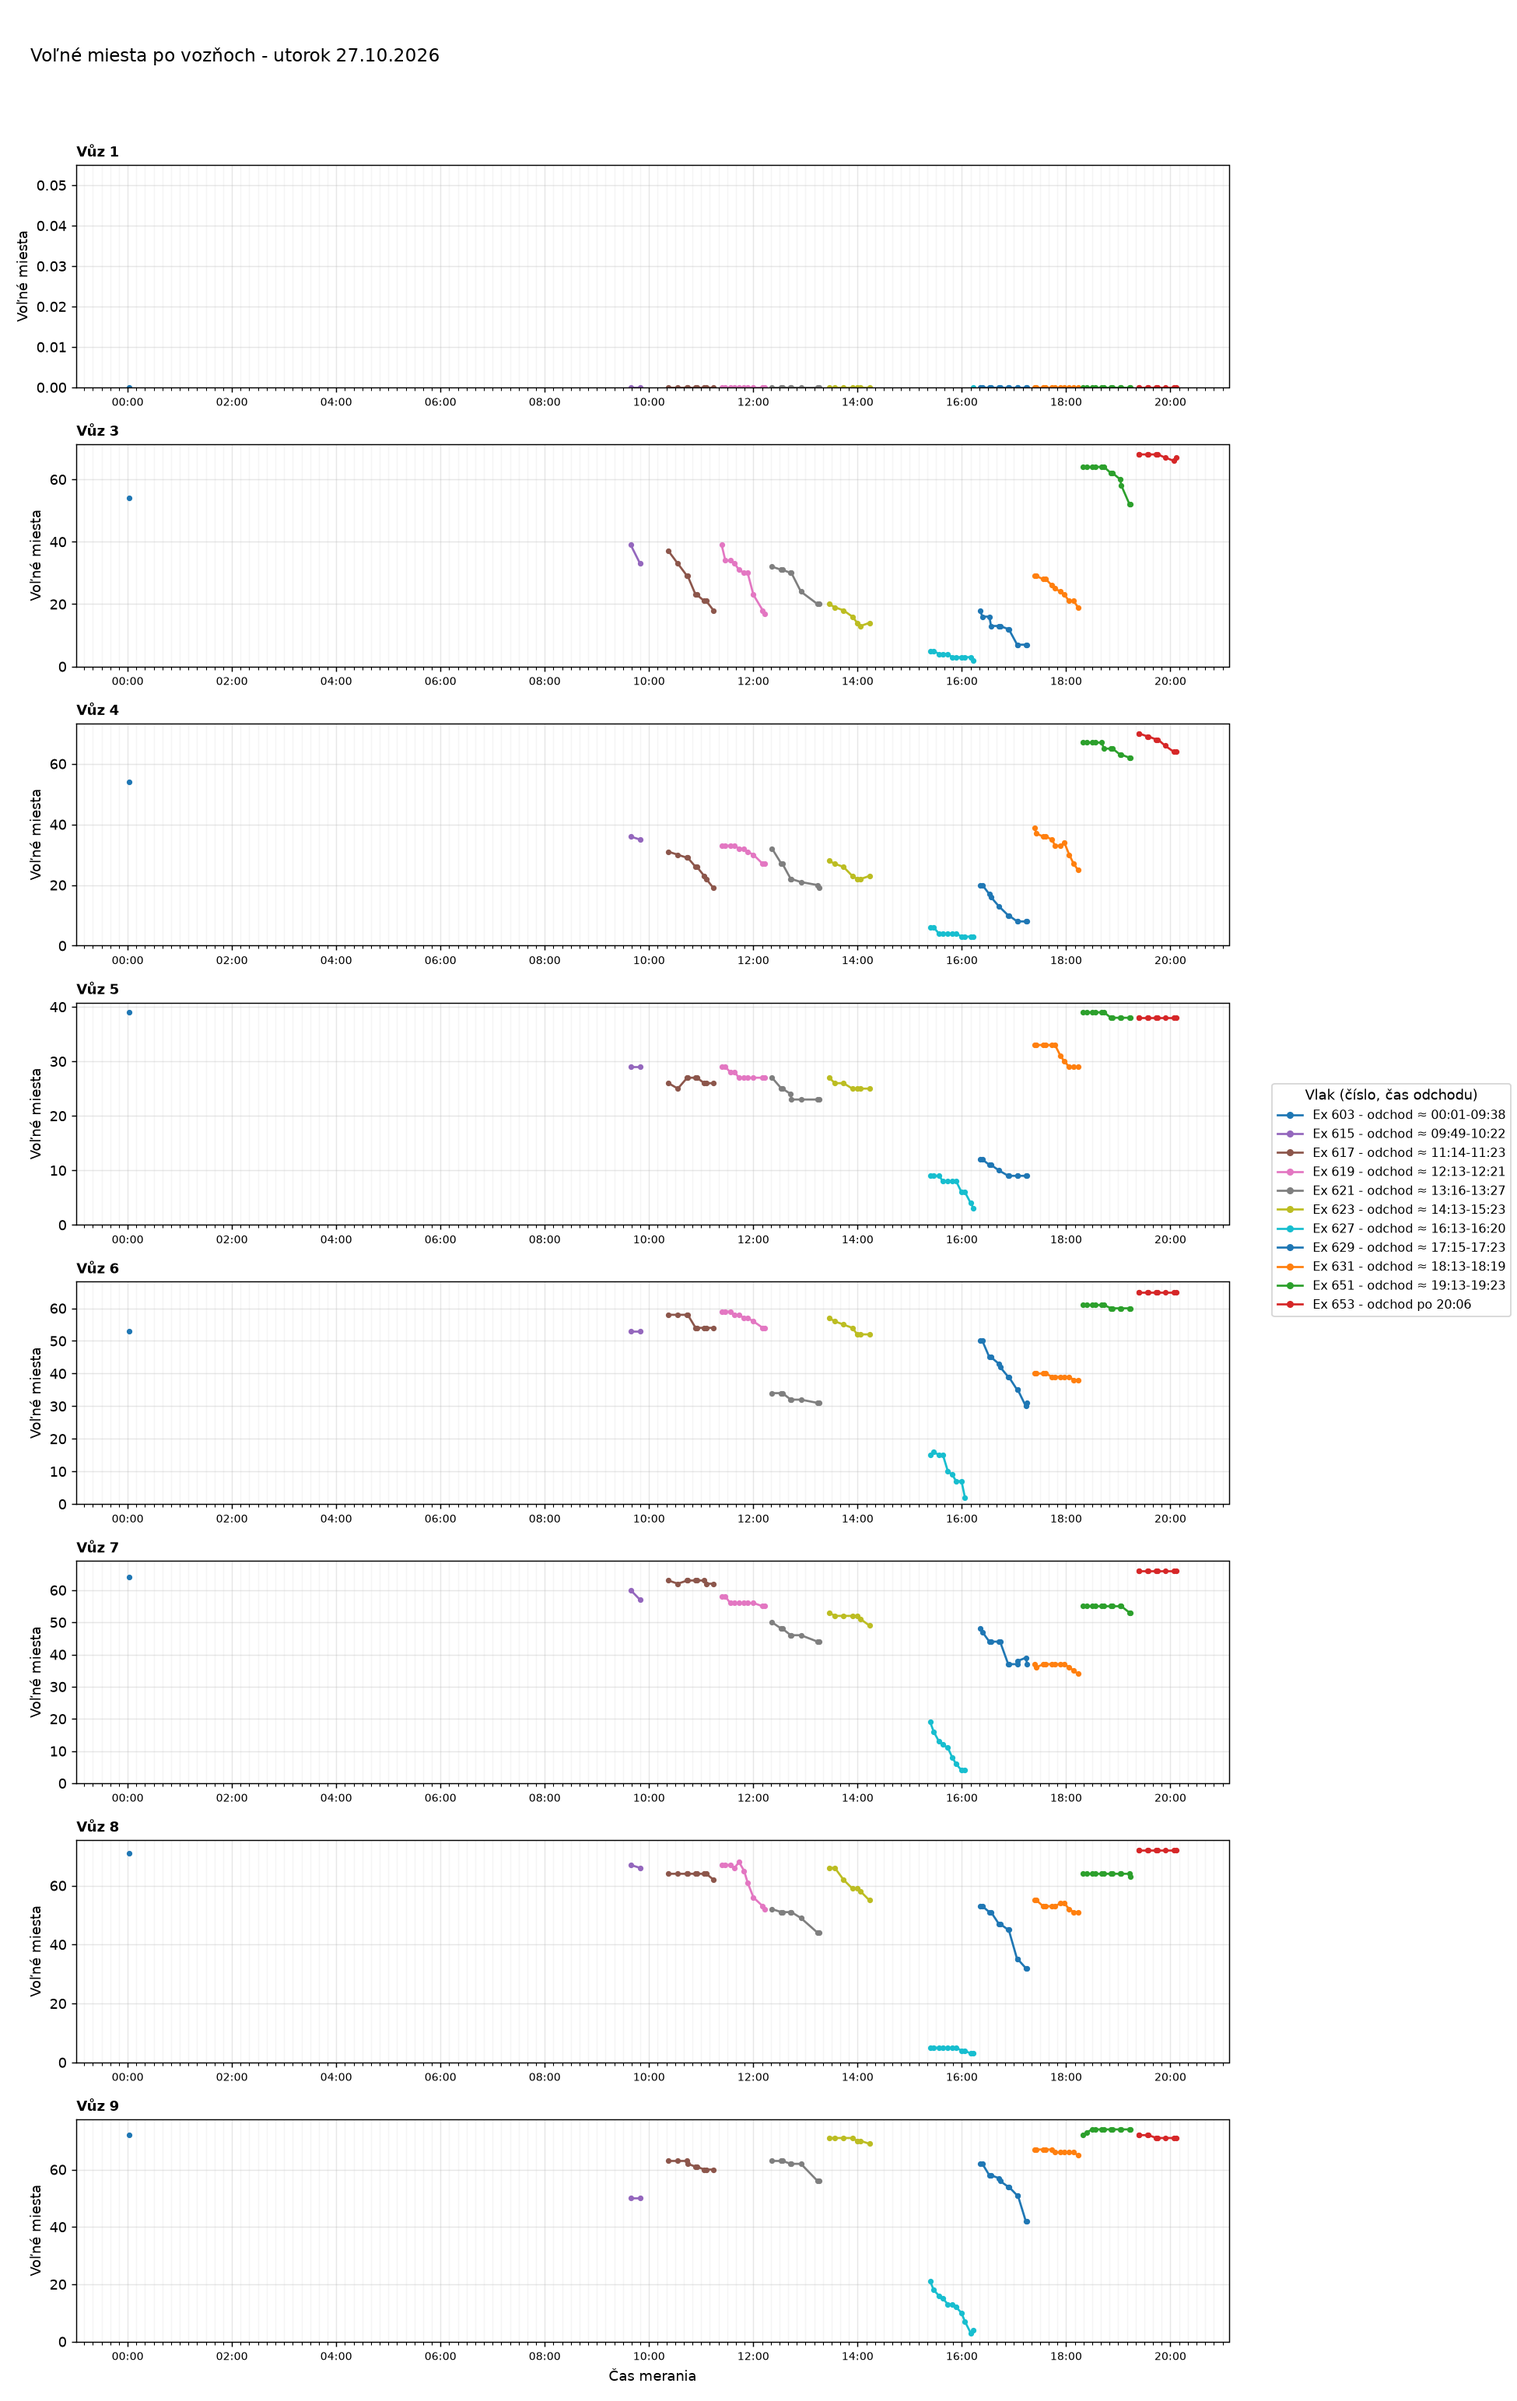
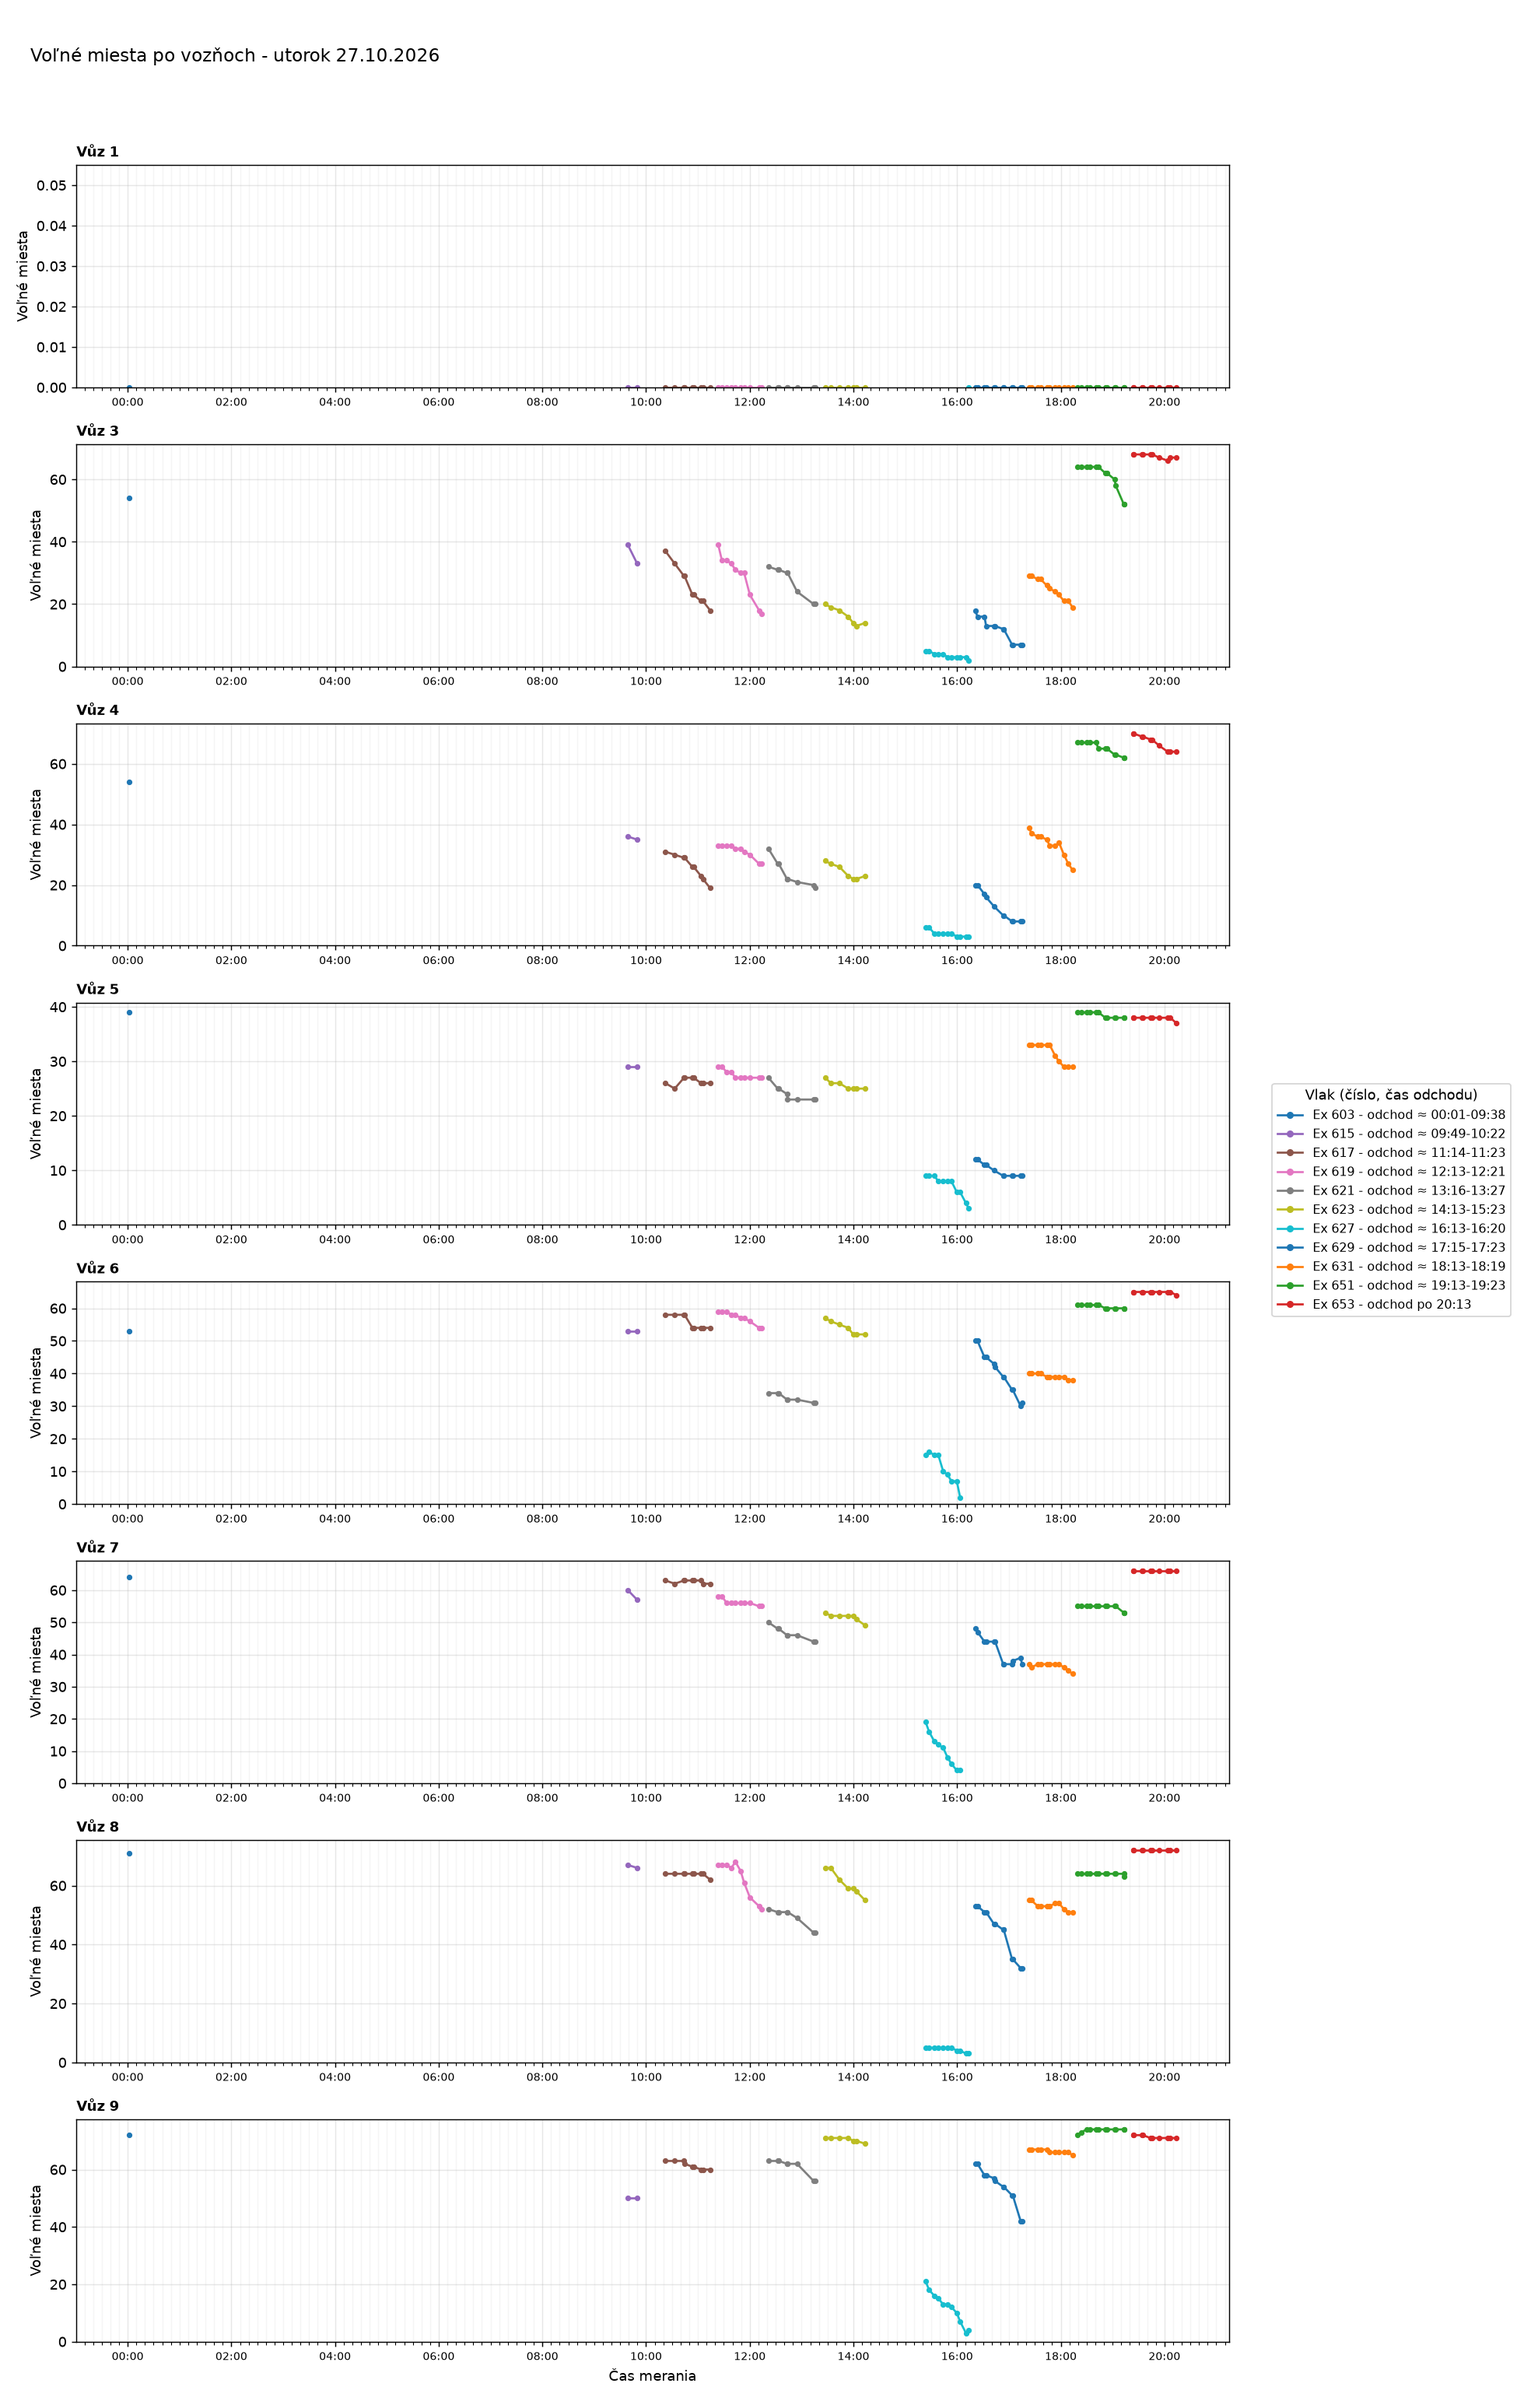
Aktualizácia grafov 2026-10-27 20:43

diff --git a/index.html b/index.html
@@ -35,7 +35,7 @@ h2.oddiel{margin:36px 0 0;font-size:1.4rem}
 <body>
 <main>
 <h1>Voľné miesta vo vlakoch</h1>
-<p class="muted">Posledné meranie: 27.10.2026 20:06 ·
+<p class="muted">Posledné meranie: 27.10.2026 20:13 ·
 <a href="data/obsadenost_data.csv">stiahnuť dáta (CSV)</a></p>
 <nav class="nav"><a href="#suhrn">Súhrn</a><a href="#statistiky">Štatistiky</a><a href="#historia">História grafov</a></nav>
 
@@ -44,7 +44,7 @@ h2.oddiel{margin:36px 0 0;font-size:1.4rem}
 <div class="tablewrap"><table>
 <thead><tr><th>Deň</th><th>Meraní</th><th>Vlakov</th><th>Čas meraní</th></tr></thead>
 <tbody>
-<tr><td><a href="#d2026-10-27">utorok 27.10.2026</a></td><td>92</td><td>11</td><td>00:01-20:06</td></tr>
+<tr><td><a href="#d2026-10-27">utorok 27.10.2026</a></td><td>93</td><td>11</td><td>00:01-20:13</td></tr>
 <tr><td><a href="#d2026-10-26">pondelok 26.10.2026</a></td><td>88</td><td>14</td><td>00:06-23:50</td></tr>
 <tr><td><a href="#d2026-10-25">nedeľa 25.10.2026</a></td><td>101</td><td>15</td><td>00:01-23:56</td></tr>
 <tr><td><a href="#d2026-10-24">sobota 24.10.2026</a></td><td>98</td><td>14</td><td>00:10-23:50</td></tr>
